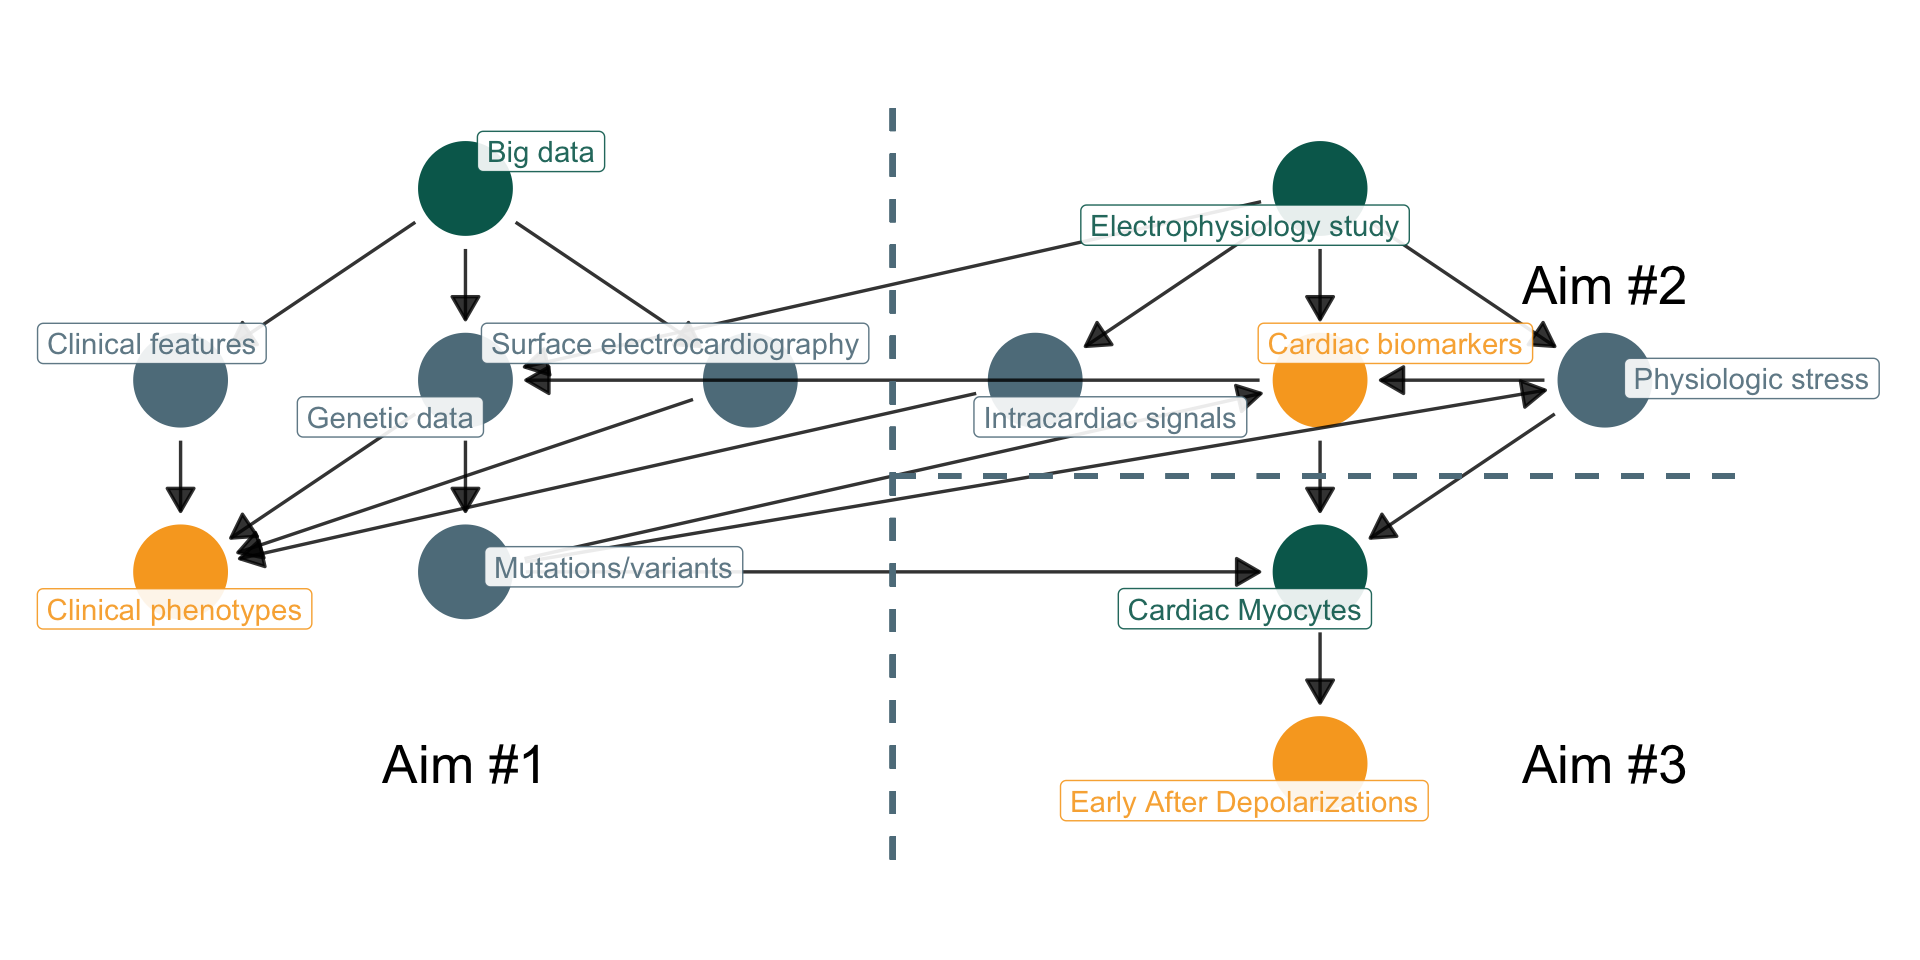
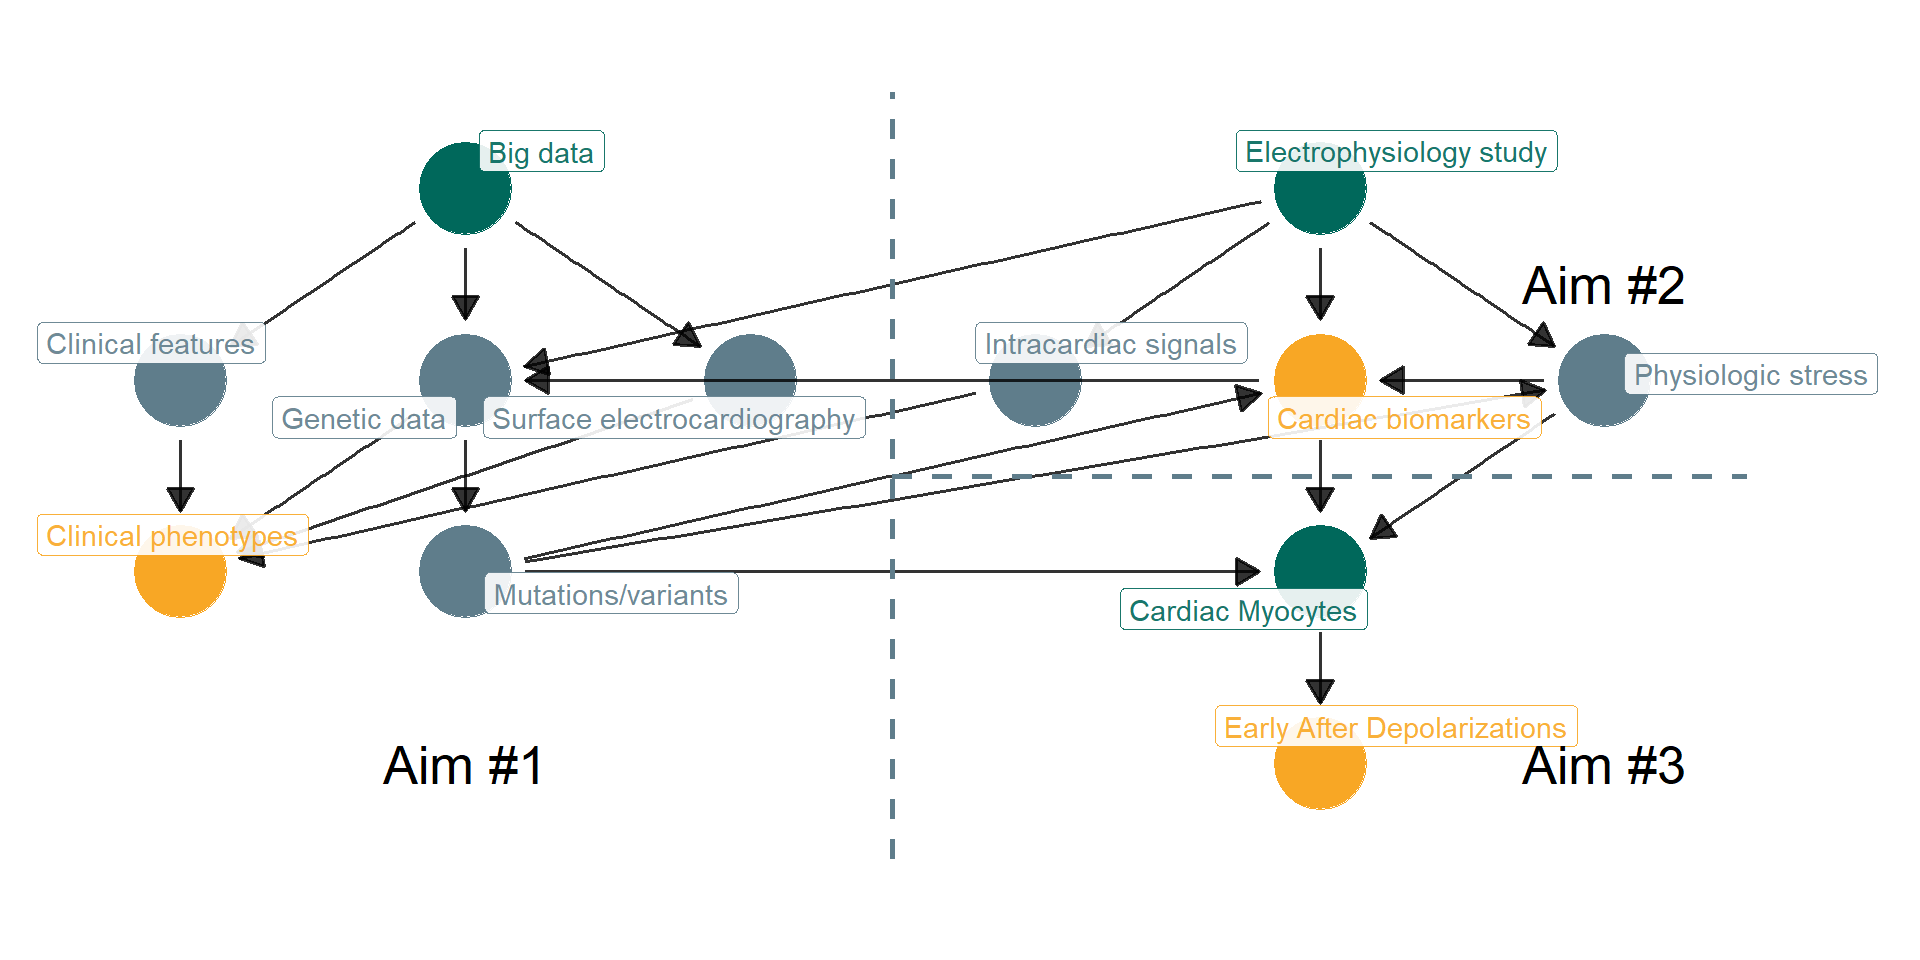
revise aims

diff --git a/t32/aims.html b/t32/aims.html
@@ -548,8 +548,8 @@ Anish S. Shah, MD|MS
 <li>Embryologically, vagus nerve sprouts from medulla and extends to distant organs (thus long pre-ganglionic axons) e.g.&nbsp;heart, lung, intestines</li>
 <li>Parasympathetic control is evolutionarily more primitive in vertebrates, preceeding sympathetic control
 <ul>
-<li>Sharks exhihibt phasic HRV without sympathetic innervation<span class="citation" data-cites="Taylor2022"><sup><a href="#/references" role="doc-biblioref" onclick="">3</a></sup></span></li>
-<li>Mammalian vagal control is more complex, with multiple nuclei, e.g.&nbsp;polyvagal<span class="citation" data-cites="Porges2009"><sup><a href="#/references" role="doc-biblioref" onclick="">4</a></sup></span></li>
+<li>Sharks exhihibt phasic HRV without sympathetic innervation<span class="citation" data-cites="Taylor2022"><sup><a href="#/references" role="doc-biblioref" onclick=""><strong>Taylor2022?</strong></a></sup></span></li>
+<li>Mammalian vagal control is more complex, with multiple nuclei, e.g.&nbsp;polyvagal<span class="citation" data-cites="Porges2009"><sup><a href="#/references" role="doc-biblioref" onclick="">3</a></sup></span></li>
 </ul></li>
 <li>Mammalian vagal outflow is particularly coupled with cardiorespiratory control
 <ul>
@@ -584,7 +584,7 @@ Anish S. Shah, MD|MS
 <ul>
 <li>Arrhythmia thresholds affected by sympathetic and vagal activity</li>
 <li>Intracardiac cross-talk between adrenergic (sympathetic) and cholinergic (vagal) neurons in the hierarchy of neurocardiac axis is critical for arrhythmogenesis during mental stress</li>
-<li>Atria are heavily innervated by autonomic ganglionic plexi, leading to the complex activity that regulates cardiac conductive properties<span class="citation" data-cites="Hoover2009 Armour1997"><sup><a href="#/references" role="doc-biblioref" onclick="">1</a>,<a href="#/references" role="doc-biblioref" onclick="">5</a></sup></span></li>
+<li>Atria are heavily innervated by autonomic ganglionic plexi, leading to the complex activity that regulates cardiac conductive properties<span class="citation" data-cites="Hoover2009 Armour1997"><sup><a href="#/references" role="doc-biblioref" onclick="">1</a>,<a href="#/references" role="doc-biblioref" onclick="">4</a></sup></span></li>
 <li>Sympathetic nervous activity is slower onset, but vagolysis is rapid, thus being a more likely causal component of arrhythmogenesis</li>
 </ul>
 </section>
@@ -592,14 +592,14 @@ Anish S. Shah, MD|MS
 <h2>Molecular mechanisms</h2>
 <ul>
 <li>Sympathetic/adreneric neurons release catecholamines (NE) that directly affect the myocardium</li>
-<li>NPY and galanin is also released, which both inhibit cholinergic activity<span class="citation" data-cites="Herring2015 Herring2012"><sup><a href="#/references" role="doc-biblioref" onclick="">6</a>,<a href="#/references" role="doc-biblioref" onclick="">7</a></sup></span></li>
-<li>Both inhibit firing and leading to vagolytic effects on the myocardium<span class="citation" data-cites="Kalla2020 Herring2008"><sup><a href="#/references" role="doc-biblioref" onclick="">8</a>,<a href="#/references" role="doc-biblioref" onclick="">9</a></sup></span>
+<li>NPY and galanin is also released, which both inhibit cholinergic activity<span class="citation" data-cites="Herring2015 Herring2012"><sup><a href="#/references" role="doc-biblioref" onclick="">5</a>,<a href="#/references" role="doc-biblioref" onclick="">6</a></sup></span></li>
+<li>Both inhibit firing and leading to vagolytic effects on the myocardium<span class="citation" data-cites="Kalla2020 Herring2008"><sup><a href="#/references" role="doc-biblioref" onclick="">7</a>,<a href="#/references" role="doc-biblioref" onclick="">8</a></sup></span>
 <ul>
 <li>Galanin released as a adrenergic co-transmitter, binding to GalR1 receptors</li>
 <li>NPY binds to cholinergic neurons through the Y2 receptor</li>
 <li>Both directly/indirectly involve protein kinase C</li>
 </ul></li>
-<li>NPY receptors exist along the neurocardiac axis, including adrenal medulla (Y3) and cardiac tissue (Y2)<span class="citation" data-cites="Coote2013"><sup><a href="#/references" role="doc-biblioref" onclick="">10</a></sup></span></li>
+<li>NPY receptors exist along the neurocardiac axis, including adrenal medulla (Y3) and cardiac tissue (Y2)<span class="citation" data-cites="Coote2013"><sup><a href="#/references" role="doc-biblioref" onclick="">9</a></sup></span></li>
 </ul>
 
 <aside><div>
@@ -608,11 +608,11 @@ Anish S. Shah, MD|MS
 <section class="slide level2">
 
 
-<img data-src="../figures/herring-2012-cellular-sympathovagal-crosstalk.png" class="img-fluid r-stretch quarto-figure-center"><p class="caption">Figure&nbsp;5: Cardiac sympatho-vagal crosstalk<span class="citation" data-cites="Herring2012"><sup><a href="#/references" role="doc-biblioref" onclick="">7</a></sup></span></p></section>
+<img data-src="../figures/herring-2012-cellular-sympathovagal-crosstalk.png" class="img-fluid r-stretch quarto-figure-center"><p class="caption">Figure&nbsp;5: Cardiac sympatho-vagal crosstalk<span class="citation" data-cites="Herring2012"><sup><a href="#/references" role="doc-biblioref" onclick="">6</a></sup></span></p></section>
 <section class="slide level2">
 
 
-<img data-src="../figures/hoang-2020-npy-blockade.png" class="img-fluid r-stretch quarto-figure-center"><p class="caption">Figure&nbsp;6: Increased sympathetic activity and NPY<span class="citation" data-cites="Hoang2020"><sup><a href="#/references" role="doc-biblioref" onclick="">11</a></sup></span></p></section></section>
+<img data-src="../figures/hoang-2020-npy-blockade.png" class="img-fluid r-stretch quarto-figure-center"><p class="caption">Figure&nbsp;6: Increased sympathetic activity and NPY<span class="citation" data-cites="Hoang2020"><sup><a href="#/references" role="doc-biblioref" onclick="">10</a></sup></span></p></section></section>
 <section>
 <section id="aims" class="title-slide slide level1 center">
 <h1>Aims</h1>
@@ -621,39 +621,30 @@ Anish S. Shah, MD|MS
 <section id="aim-1-clinical" class="slide level2 smaller">
 <h2>Aim #1: Clinical</h2>
 <ol type="1">
-<li><strong>Identify clinical phenotypes of vagally-triggered AF.</strong> <em>Clinical, intracardiac, and genetic factors will contribute to clinically-relevant clusters of AF</em>.
+<li><strong>Identify clinical phenotypes of vagally-triggered AF.</strong> <em>Clinical, intracardiac, and genetic factors will contribute to clinically-relevant phenotypes of AF</em>.
 <ol type="a">
-<li>We will <span class="blue">develop a pragmatic, population-level dataset</span> to abstract clinical risk factors, ECG, and echocardiography features. <span class="green">Using unsupervised learning models</span>, AF will be classified into seperate phenotypes.</li>
-<li>The <span class="red">clinical relevance of AF phenotypes</span> will be assessed through relevant outcomes (adverse events, disease burden/progression). AF phenotypes identified in <strong>1a</strong> will have distinct hazard distributions <span class="green">estimated through survival analysis</span>.</li>
-<li>We will perform <span class="blue">whole exome sequencing</span> on a subset of patients from each cluster defined in <strong>1a</strong>. Selected <span class="math inline">\(\alpha\)</span>, <span class="math inline">\(\beta\)</span> adrenergic receptors and cholinergic receptor polymorphisms will be associated with individual AF phenotypes and clinical outcomes.</li>
+<li>We will <span class="blue">develop a pragmatic, population-level dataset</span> to abstract clinical risk factors, ECG, and echocardiography features and therapy responses. <span class="green">Using unsupervised learning models</span>, AF will be classified into seperate clusters.</li>
+<li>The <span class="red">clinical relevance of AF phenotypes</span> will be assessed through relevant outcomes (adverse events, disease burden/progression). AF clusters identified in <strong>1a</strong> will have distinct hazard distributions <span class="green">estimated through survival analysis</span>.</li>
+<li>We will perform <span class="orange">whole exome sequencing</span> on a subset of patients from each cluster defined in <strong>1a</strong>. Selected <span class="math inline">\(\alpha\)</span> and <span class="math inline">\(\beta\)</span> adrenergic receptors and cholinergic receptor polymorphisms will be associated with individual AF clusters and clinical outcomes.</li>
 </ol></li>
 </ol>
 
 <aside><div>
 <p>ECG = electrocardiography;</p>
 </div></aside></section>
-<section class="slide level2">
-
-<pre><code>a. Increased [arrhythmia burden and &amp;uarr;NE, &amp;uarr;NPY, &amp;uarr;Gal]{.orange} will be associated with an increased risk of [genetic polymorphisms]{.blue} in candidate genes known to be expressed by cholinergic neurons (e.g. **rs16147**[@Chang2016])</code></pre>
-
-<aside><div>
-<p>Variant <strong>rs6147</strong> expressed in promoter region of NPY and associated with increased perception of environmental stress.<span class="citation" data-cites="Chang2016"><sup><a href="#/references" role="doc-biblioref" onclick="">12</a></sup></span> EPS = electrophysiology study; ECG = electrocardiography;</p>
-</div></aside></section>
 <section id="aim-2-translational" class="slide level2 smaller">
 <h2>Aim #2: Translational</h2>
-<ol type="1">
-<li><strong>To evaluate the effect of modifying the intrinsic cardiac nervous system in the ablative treatment of vagally-triggered paroxysmal AF.</strong> <em>The burden and phenotype of AF will correlate with the expression of differential structural and autonomic biomarkers.</em>
+<ol start="2" type="1">
+<li><strong>Determine the intracardiac characteristics of vagally-triggered AF.</strong> <em>Structural and electrical features assessed through EPS will identify separate clinically-relevant phenotypes of AF.</em>
 <ol type="a">
-<li><p><span class="red">Modification of the ICNS</span> through ablation during PVI, documented by the release of S100B,<span class="citation" data-cites="Mehra2022"><sup><a href="#/references" role="doc-biblioref" onclick="">13</a></sup></span> will lead to <span class="orange">↓NE, ↓NPY, ↓Gal expression</span> (as a marker of decreased vagal afferent activity).</p></li>
-<li><p>Increased sympathetic/adrenergic stress <span class="red">through catecholamine infusion</span> will lead to <span class="orange">↑NE, ↑NPY, ↑Gal expression</span>.</p></li>
-<li><p>Increased mental stress <span class="red">through mental stress challenge</span> will lead to <span class="orange">↑NE, ↑NPY, ↑Gal expression</span></p></li>
-<li><p><span class="orange">Atrial arrhythmia thresholds</span> will be acutely decreased after GP ablation based on decreases in <span class="green">electrical dispersion, triggered after-depolarizations, and HRV</span>.</p></li>
-<li><p>We will obtained electroanatomical mapping from EPS in patients undergoing PVI, including intracardiac electrogram recordings. Using a combination of <span class="green">signal processing and feature reduction</span>, we will identify individual structural and electrical AF phenotypes.</p></li>
+<li>We will collect electroanatomical mapping data and electrogram recordings <span class="red">during PVI</span> of paroxysmal AF. Using <span class="green">signal processing and feature reduction</span>, we will identify clusters of structural and electrical AF that correlate with those identified in <strong>1a</strong>.</li>
+<li>We will apply physiological stress and psychological stress <span class="red">through catecholamine infusion and mental stress challenge</span>, respectively. Catecholamine infusion will lead to <span class="orange">↑NE, ↑NPY, ↑Gal expression</span> while mental stress will lead to <span class="orange">↑NE, ↑NPY, ↑Gal expression</span></li>
+<li>In those with suspected vagally-triggered AF, there will be an increased risk of <span class="orange">Y2R and Gal1R receptor polymorphisms</span>.</li>
 </ol></li>
 </ol>
 
 <aside><div>
-<p>ANP/BNP = atrial/brain natriuretic peptide; EPS = electrophysiology study; PVI = pulmonary vein isolation;</p>
+<p>ICNS = intracardiac nervous system; EPS = electrophysiology study; PVI = pulmonary vein isolation; HRV = heart rate variability;</p>
 </div></aside></section>
 <section id="methods" class="slide level2 smaller">
 <h2>Methods</h2>
@@ -705,38 +696,29 @@ Anish S. Shah, MD|MS
 <div id="ref-Shivkumar2016a" class="csl-entry" role="doc-biblioentry">
 <div class="csl-left-margin">2. </div><div class="csl-right-inline">Shivkumar K, Ajijola OA, Anand I, Armour JA, Chen PS, Esler M, et al. Clinical neurocardiology defining the value of neuroscience-based cardiovascular therapeutics. Journal of Physiology 2016;594:3911–3954. doi:<a href="https://doi.org/10.1113/JP271870">10.1113/JP271870</a>.</div>
 </div>
-<div id="ref-Taylor2022" class="csl-entry" role="doc-biblioentry">
-<div class="csl-left-margin">3. </div><div class="csl-right-inline">Taylor EW, Wang T, Leite CAC. An overview of the phylogeny of cardiorespiratory control in vertebrates with some reflections on the <span>“polyvagal theory.”</span> Biological Psychology 2022;172. doi:<a href="https://doi.org/10.1016/j.biopsycho.2022.108382">10.1016/j.biopsycho.2022.108382</a>.</div>
-</div>
 <div id="ref-Porges2009" class="csl-entry" role="doc-biblioentry">
-<div class="csl-left-margin">4. </div><div class="csl-right-inline">Porges SW. The polyvagal theory: New insights into adaptive reactions of the autonomic nervous system. Cleveland Clinic Journal of Medicine 2009;76:S86. doi:<a href="https://doi.org/10.3949/ccjm.76.s2.17">10.3949/ccjm.76.s2.17</a>.</div>
+<div class="csl-left-margin">3. </div><div class="csl-right-inline">Porges SW. The polyvagal theory: New insights into adaptive reactions of the autonomic nervous system. Cleveland Clinic Journal of Medicine 2009;76:S86. doi:<a href="https://doi.org/10.3949/ccjm.76.s2.17">10.3949/ccjm.76.s2.17</a>.</div>
 </div>
 <div id="ref-Hoover2009" class="csl-entry" role="doc-biblioentry">
-<div class="csl-left-margin">5. </div><div class="csl-right-inline">Hoover DB, Isaacs ER, Jacques F, Hoard JL, Pagé P, Armour JA. Localization of multiple neurotransmitters in surgically derived specimens of human atrial ganglia. Neuroscience 2009;164:1170–1179. doi:<a href="https://doi.org/10.1016/j.neuroscience.2009.09.001">10.1016/j.neuroscience.2009.09.001</a>.</div>
+<div class="csl-left-margin">4. </div><div class="csl-right-inline">Hoover DB, Isaacs ER, Jacques F, Hoard JL, Pagé P, Armour JA. Localization of multiple neurotransmitters in surgically derived specimens of human atrial ganglia. Neuroscience 2009;164:1170–1179. doi:<a href="https://doi.org/10.1016/j.neuroscience.2009.09.001">10.1016/j.neuroscience.2009.09.001</a>.</div>
 </div>
 <div id="ref-Herring2015" class="csl-entry" role="doc-biblioentry">
-<div class="csl-left-margin">6. </div><div class="csl-right-inline">Herring N. Autonomic control of the heart: Going beyond the classical neurotransmitters. Experimental Physiology 2015;100:354–358. doi:<a href="https://doi.org/10.1113/expphysiol.2014.080184">10.1113/expphysiol.2014.080184</a>.</div>
+<div class="csl-left-margin">5. </div><div class="csl-right-inline">Herring N. Autonomic control of the heart: Going beyond the classical neurotransmitters. Experimental Physiology 2015;100:354–358. doi:<a href="https://doi.org/10.1113/expphysiol.2014.080184">10.1113/expphysiol.2014.080184</a>.</div>
 </div>
 <div id="ref-Herring2012" class="csl-entry" role="doc-biblioentry">
-<div class="csl-left-margin">7. </div><div class="csl-right-inline">Herring N, Cranley J, Lokale MN, Li D, Shanks J, Alston EN, et al. The cardiac sympathetic co-transmitter galanin reduces acetylcholine release and vagal bradycardia: Implications for neural control of cardiac excitability. Journal of Molecular and Cellular Cardiology 2012;52:667–676. doi:<a href="https://doi.org/10.1016/j.yjmcc.2011.11.016">10.1016/j.yjmcc.2011.11.016</a>.</div>
+<div class="csl-left-margin">6. </div><div class="csl-right-inline">Herring N, Cranley J, Lokale MN, Li D, Shanks J, Alston EN, et al. The cardiac sympathetic co-transmitter galanin reduces acetylcholine release and vagal bradycardia: Implications for neural control of cardiac excitability. Journal of Molecular and Cellular Cardiology 2012;52:667–676. doi:<a href="https://doi.org/10.1016/j.yjmcc.2011.11.016">10.1016/j.yjmcc.2011.11.016</a>.</div>
 </div>
 <div id="ref-Kalla2020" class="csl-entry" role="doc-biblioentry">
-<div class="csl-left-margin">8. </div><div class="csl-right-inline">Kalla M, Hao G, Tapoulal N, Tomek J, Liu K, Woodward L, et al. The cardiac sympathetic co-transmitter neuropeptide y is pro-arrhythmic following ST-elevation myocardial infarction despite beta-blockade. European Heart Journal 2020;41:2168–2179. doi:<a href="https://doi.org/10.1093/eurheartj/ehz852">10.1093/eurheartj/ehz852</a>.</div>
+<div class="csl-left-margin">7. </div><div class="csl-right-inline">Kalla M, Hao G, Tapoulal N, Tomek J, Liu K, Woodward L, et al. The cardiac sympathetic co-transmitter neuropeptide y is pro-arrhythmic following ST-elevation myocardial infarction despite beta-blockade. European Heart Journal 2020;41:2168–2179. doi:<a href="https://doi.org/10.1093/eurheartj/ehz852">10.1093/eurheartj/ehz852</a>.</div>
 </div>
 <div id="ref-Herring2008" class="csl-entry" role="doc-biblioentry">
-<div class="csl-left-margin">9. </div><div class="csl-right-inline">Herring N, Lokale MN, Danson EJ, Heaton DA, Paterson DJ. Neuropeptide y reduces acetylcholine release and vagal bradycardia via a Y2 receptor-mediated, protein kinase c-dependent pathway. Journal of Molecular and Cellular Cardiology 2008;44:477–485. doi:<a href="https://doi.org/10.1016/j.yjmcc.2007.10.001">10.1016/j.yjmcc.2007.10.001</a>.</div>
+<div class="csl-left-margin">8. </div><div class="csl-right-inline">Herring N, Lokale MN, Danson EJ, Heaton DA, Paterson DJ. Neuropeptide y reduces acetylcholine release and vagal bradycardia via a Y2 receptor-mediated, protein kinase c-dependent pathway. Journal of Molecular and Cellular Cardiology 2008;44:477–485. doi:<a href="https://doi.org/10.1016/j.yjmcc.2007.10.001">10.1016/j.yjmcc.2007.10.001</a>.</div>
 </div>
 <div id="ref-Coote2013" class="csl-entry" role="doc-biblioentry">
-<div class="csl-left-margin">10. </div><div class="csl-right-inline">Coote JH. Myths and realities of the cardiac vagus. Journal of Physiology 2013;591:4073–4085. doi:<a href="https://doi.org/10.1113/jphysiol.2013.257758">10.1113/jphysiol.2013.257758</a>.</div>
+<div class="csl-left-margin">9. </div><div class="csl-right-inline">Coote JH. Myths and realities of the cardiac vagus. Journal of Physiology 2013;591:4073–4085. doi:<a href="https://doi.org/10.1113/jphysiol.2013.257758">10.1113/jphysiol.2013.257758</a>.</div>
 </div>
 <div id="ref-Hoang2020" class="csl-entry" role="doc-biblioentry">
-<div class="csl-left-margin">11. </div><div class="csl-right-inline">Hoang JD, Salavatian S, Yamaguchi N, Swid MA, Vaseghi M. Cardiac sympathetic activation circumvents high-dose beta blocker therapy in part through release of neuropeptide y. JCI Insight 2020;5. doi:<a href="https://doi.org/10.1172/JCI.INSIGHT.135519">10.1172/JCI.INSIGHT.135519</a>.</div>
-</div>
-<div id="ref-Chang2016" class="csl-entry" role="doc-biblioentry">
-<div class="csl-left-margin">12. </div><div class="csl-right-inline">Chang H-A, Fang W-H, Chang T-C, Huang S-Y, Chang C-C. Association of neuropeptide y promoter polymorphism (rs16147) with perceived stress and cardiac vagal outflow in humans. Scientific Reports 2016;6:31683. doi:<a href="https://doi.org/10.1038/srep31683">10.1038/srep31683</a>.</div>
-</div>
-<div id="ref-Mehra2022" class="csl-entry" role="doc-biblioentry">
-<div class="csl-left-margin">13. </div><div class="csl-right-inline">Mehra R, Tjurmina OA, Ajijola OA, Arora R, Bolser DC, Chapleau MW, et al. Research opportunities in autonomic neural mechanisms of cardiopulmonary regulation: A report from the national heart, lung, and blood institute and the national institutes of health office of the director workshop. JACC: Basic to Translational Science 2022;7:265–293. doi:<a href="https://doi.org/10.1016/j.jacbts.2021.11.003">10.1016/j.jacbts.2021.11.003</a>.</div>
+<div class="csl-left-margin">10. </div><div class="csl-right-inline">Hoang JD, Salavatian S, Yamaguchi N, Swid MA, Vaseghi M. Cardiac sympathetic activation circumvents high-dose beta blocker therapy in part through release of neuropeptide y. JCI Insight 2020;5. doi:<a href="https://doi.org/10.1172/JCI.INSIGHT.135519">10.1172/JCI.INSIGHT.135519</a>.</div>
 </div>
 </div>
 
